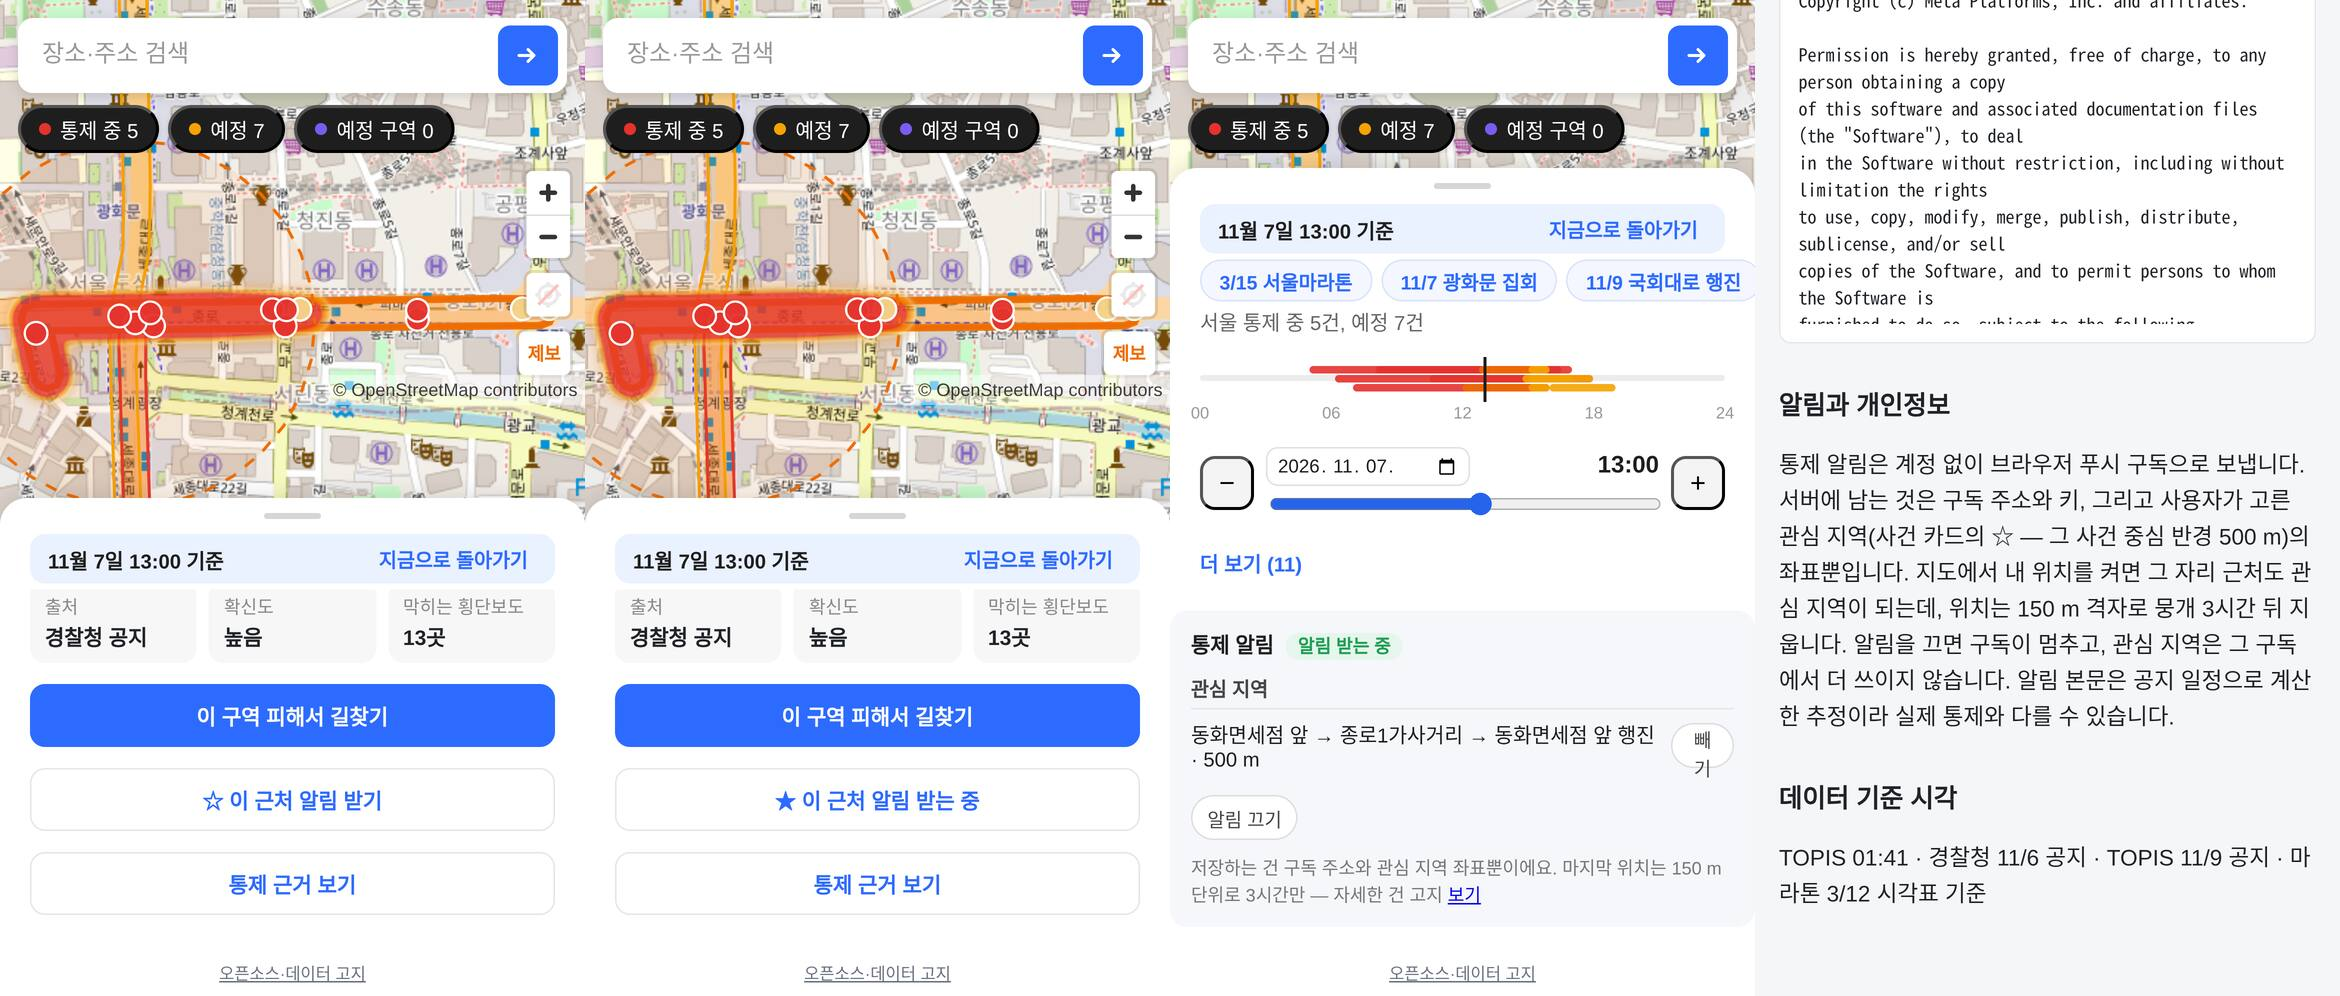
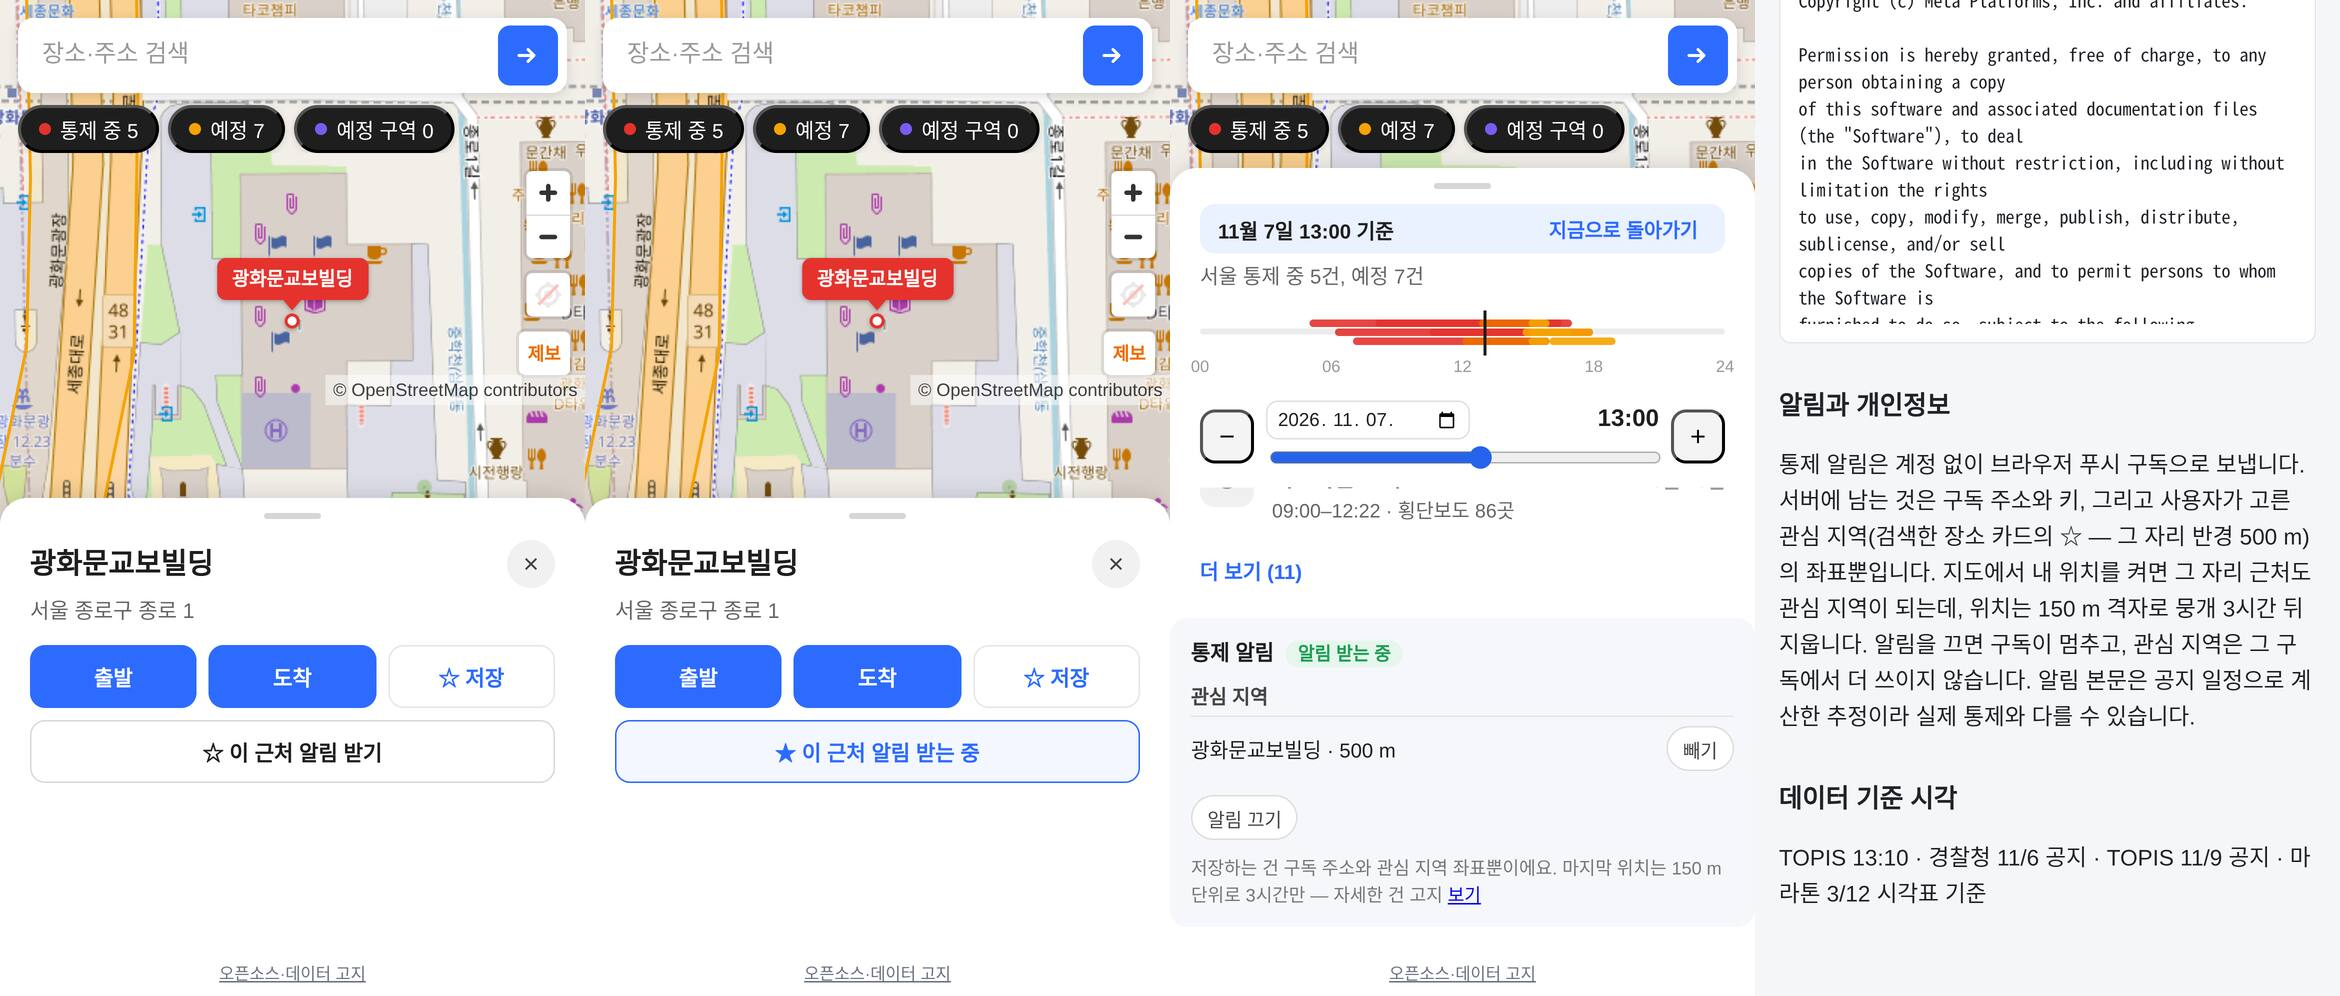
harness: T7.10 — ☆ 장소 카드로 옮김 반영(ARCHITECTURE FE 알림 행, ROADMAP T7.10·T7.14 산출 주석, plan 메모), iPhone 13 스크린샷 다시(장소 카드 ☆ → ★ → 목록 → 고지)

diff --git a/harness/plans/active/T7.10.md b/harness/plans/active/T7.10.md
@@ -1,4 +1,4 @@
 # T7.10 알림 → 카드, ☆ 이 근처 알림 받기, 관심 지역 관리 (ADR-014 C, B 마지막 → PC-7B)
-- 무엇: FE 구독 흐름(권한 → VAPID 공개키 → pushManager.subscribe → POST /push/subscribe, endpoint 는 localStorage `naru.push.v1`), 사건 카드 "☆ 이 근처 알림 받기"(사건 중심 500 m saved — 이미 있으면 ★·누르면 빼기), 시트 '통제 알림' 칸에 관심 지역 목록·삭제·알림 끄기·개인정보 한 줄, 내 위치를 켰을 때만 last_seen 500 m(150 m 격자·3시간은 BE), /licenses "알림과 개인정보" 절. 알림 클릭 → /?event= 은 sw.js·T7.5 그대로. 알림 상태는 Provider 없이 모듈 스토어 + useSyncExternalStore 훅(ADR-014 D)
-- 파일: FE api/naruApiClient(§9 여섯)·push/store·push/usePush·components/PushSetup(관심 지역 목록 포함 — 따로 WatchAreas 안 둠)·EventCard·LiveSheet·MapView(geolocate → last_seen)·RouteProvider(내 위치 → last_seen)·i18n/ko·app/licenses, 테스트·e2e
+- 무엇: FE 구독 흐름(권한 → VAPID 공개키 → pushManager.subscribe → POST /push/subscribe, endpoint 는 localStorage `naru.push.v1`), 장소 카드 "☆ 이 근처 알림 받기"(검색해 고른 자리 500 m saved — 이미 있으면 ★·누르면 빼기. 처음엔 사건 카드에 뒀는데 태우 11/11 "사건이 생긴 뒤에야 저장하는 거라" 장소로 옮기고 사건 카드 ☆는 뺌), 시트 '통제 알림' 칸에 관심 지역 목록·삭제·알림 끄기·개인정보 한 줄, 내 위치를 켰을 때만 last_seen 500 m(150 m 격자·3시간은 BE), /licenses "알림과 개인정보" 절. 알림 클릭 → /?event= 은 sw.js·T7.5 그대로. 알림 상태는 Provider 없이 모듈 스토어 + useSyncExternalStore 훅(ADR-014 D)
+- 파일: FE api/naruApiClient(§9 여섯)·push/store·push/usePush·components/PushSetup(관심 지역 목록 포함 — 따로 WatchAreas 안 둠)·PlaceCard(☆)·LiveSheet·MapView(geolocate → last_seen)·RouteProvider(내 위치 → last_seen)·i18n/ko·app/licenses, 테스트·e2e
 - 검증: 기록 응답(push_vapid_public_key·push_subscribe·watch_areas…)으로 클라이언트·목록 렌더, e2e 는 시크릿 창이라 구독 실패 문구까지, 헤드리스 영속 프로필로 실제 구독 → ☆ → 목록 스크린샷, 운영은 태우 PC Chrome·폰(PC-7B)

diff --git a/harness/ARCHITECTURE.md b/harness/ARCHITECTURE.md
@@ -109,7 +109,7 @@
 | `map/MapView.tsx` | client | `useRef(maplibre.Map)`, `source.setData()` |
 | `map/layers/{closure,route,zone,event}Layer.ts` | 순수 함수 | contracts → MapLibre source. event = 지금 지도 사건 중심점(클러스터)·구역 (T7.4) |
 | `map/eventKinds.ts` | 순수 함수 | 사건 종류(통제 중·1시간 안·예정·예정 구역·해제)·칩 수·목록 순서·줌 3단계 (T7.4) |
-| `app/manifest.ts` · `public/sw.js` · `push/usePush.ts` · `push/store.ts` | PWA·알림 (T7.7, T7.10) | 매니페스트(설치), 서비스워커(push → showNotification, 클릭 → `/?event=`), 지원 판정·등록·권한·구독(VAPID 공개키 → pushManager.subscribe → §9)·관심 지역(watch/unwatch 사건 중심 500 m, 내 위치 켰을 때만 last_seen) 훅. 상태는 Provider 없이 모듈 스토어 + `useSyncExternalStore`(ADR-014 D) — endpoint·라벨은 localStorage. 화면은 `PushSetup`(목록·빼기·알림 끄기·개인정보 한 줄)·`EventCard` ☆ |
+| `app/manifest.ts` · `public/sw.js` · `push/usePush.ts` · `push/store.ts` | PWA·알림 (T7.7, T7.10) | 매니페스트(설치), 서비스워커(push → showNotification, 클릭 → `/?event=`), 지원 판정·등록·권한·구독(VAPID 공개키 → pushManager.subscribe → §9)·관심 지역(watch/unwatch 장소 카드의 자리 500 m — 사건 카드 ☆는 태우 11/11 뺌, 내 위치 켰을 때만 last_seen) 훅. 상태는 Provider 없이 모듈 스토어 + `useSyncExternalStore`(ADR-014 D) — endpoint·라벨은 localStorage. 화면은 `PushSetup`(목록·빼기·알림 끄기·개인정보 한 줄)·`PlaceCard` ☆ |
 | `map/layers/marchLayer.ts` | 순수 함수 | 행진 키프레임(§3.2) → 그 시각 프레임(두 키프레임 사이 보간) → heatmap·중심 원·횡단보도 P 6단계 소스. 재생은 ClosureProvider `playMs`(네트워크 없음) (T7.16) |
 | `components/TimeSlider` · `LegList` · `EvidencePopover` · `Footer` | client | |
 
